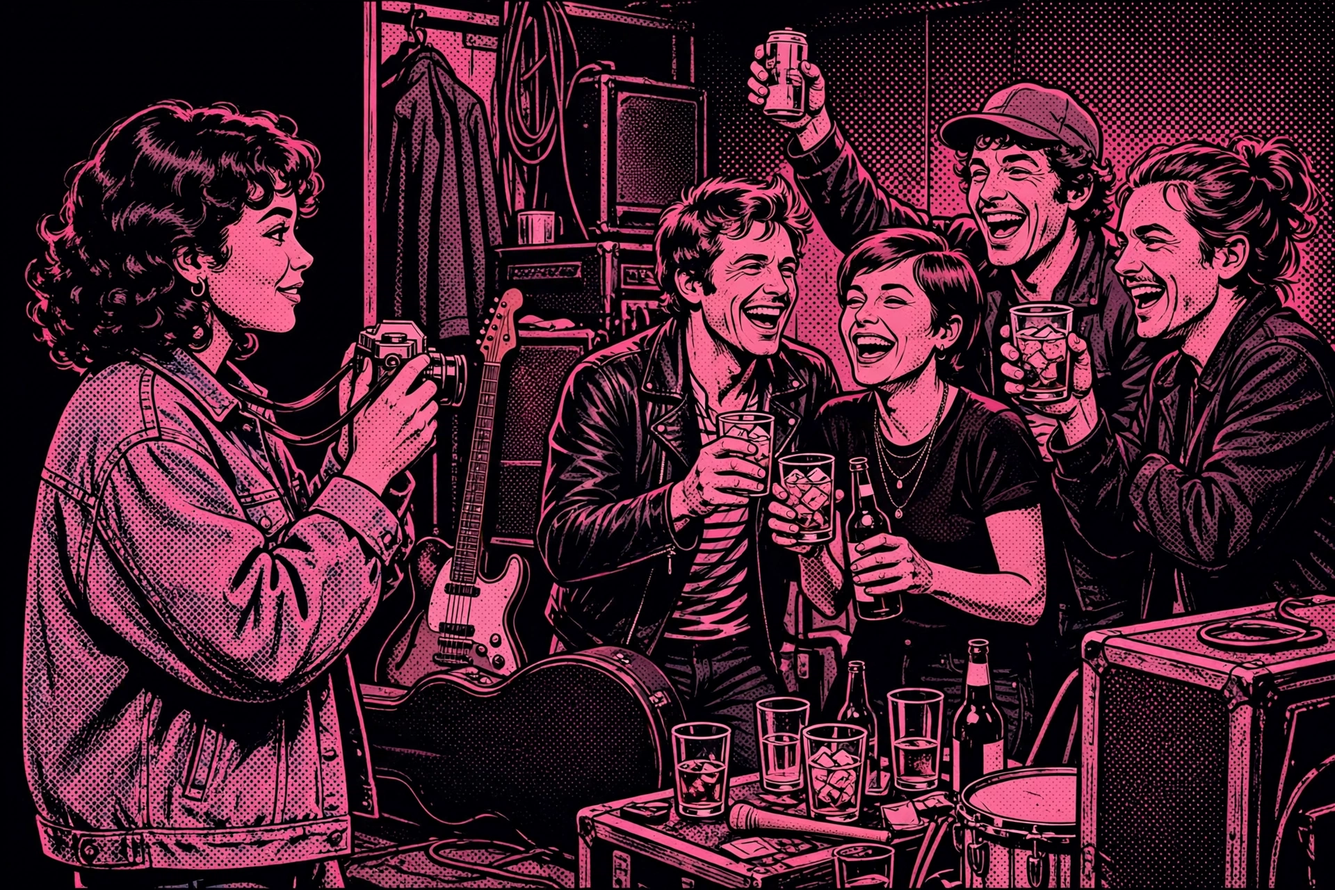
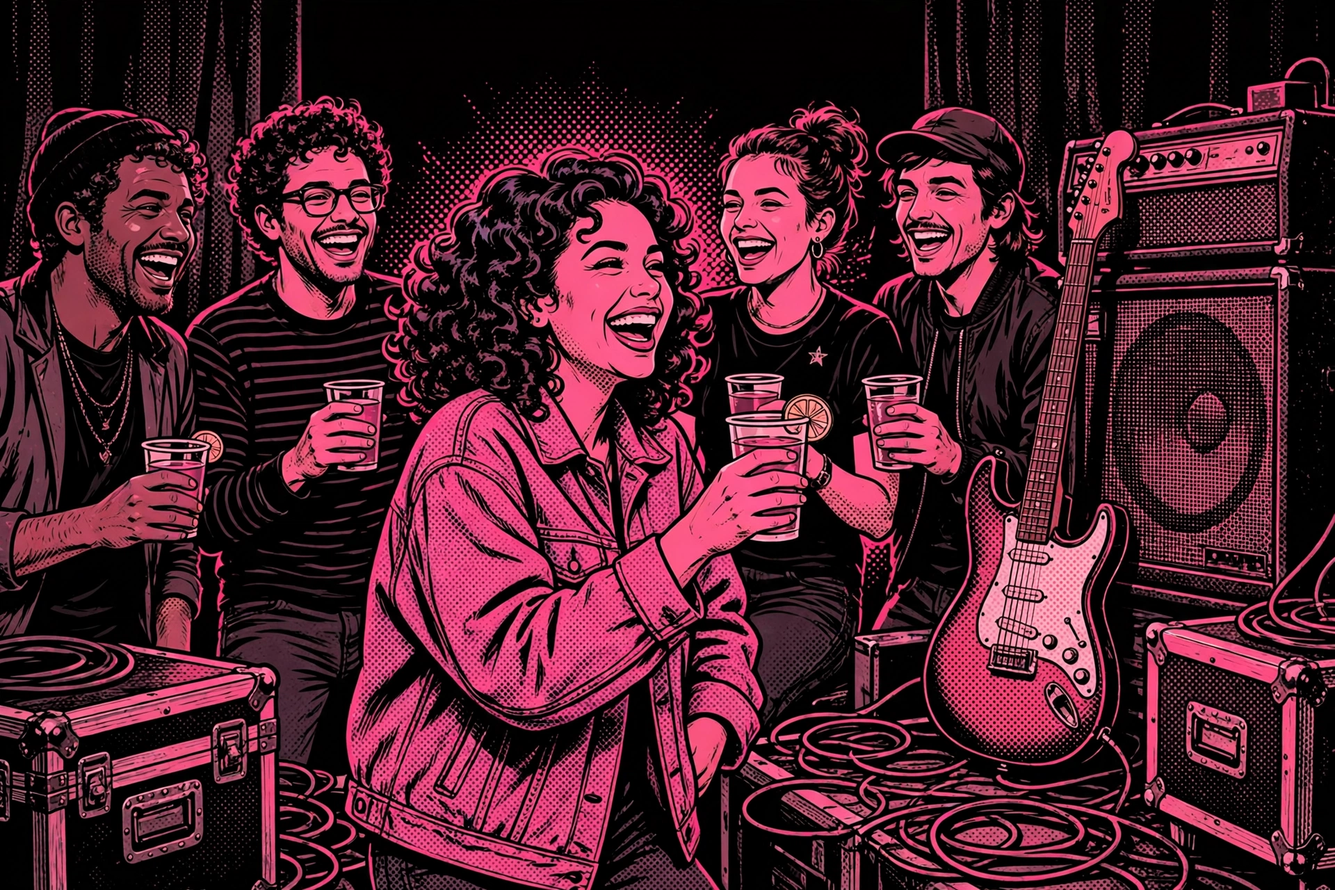
Revise 'Encore': remove photography — June is record-store clerk only, run merch on tour

diff --git a/romance/index.html b/romance/index.html
@@ -239,10 +239,10 @@ var PAGES = [
   {
     title: "1 · The last local show",
     blocks: [
-      { cap: "Theo\u2019s band plays their last local show tonight. After this, it\u2019s three weeks on the road \u2014 and I\u2019ve shot every single one of their gigs." },
+      { cap: "Theo\u2019s band plays their last local show tonight. After this, it\u2019s three weeks on the road \u2014 and I\u2019ve never missed one of their gigs." },
       { img: "panels/p01.webp", bubbles: [] },
       { img: "panels/p02.webp", bubbles: [
-        { who: "June \u00b7 thinking", text: "Same camera. Same pit. So why does tonight feel different?", pos: "bl", thought: true }
+        { who: "June \u00b7 thinking", text: "Same spot. Same denim jacket. So why does tonight feel different?", pos: "bl", thought: true }
       ]}
     ]
   },
@@ -252,7 +252,7 @@ var PAGES = [
       { img: "panels/p03.webp", bubbles: [] },
       { cap: "He plays like the room is on fire. He always has." },
       { img: "panels/p04.webp", bubbles: [
-        { who: "June \u00b7 thinking", text: "One more roll of film. That\u2019s all I need. That\u2019s what I keep telling myself.", pos: "bl", thought: true }
+        { who: "June \u00b7 thinking", text: "One more song. That\u2019s all I need. That\u2019s what I keep telling myself.", pos: "bl", thought: true }
       ]}
     ]
   },
@@ -260,7 +260,7 @@ var PAGES = [
     title: "3 · The look",
     blocks: [
       { img: "panels/p05.webp", bubbles: [
-        { who: "Theo", text: "This one\u2019s for the girl in the pit.", pos: "tl" }
+        { who: "Theo", text: "This one\u2019s for the girl in the front row.", pos: "tl" }
       ]},
       { img: "panels/p06.webp", bubbles: [
         { who: "June \u00b7 thinking", text: "He\u2019s looking at me. He\u2019s actually looking at me.", pos: "br", thought: true }
@@ -274,8 +274,8 @@ var PAGES = [
         { who: "Bandmate", text: "Tour starts Monday! Three weeks, five states!", pos: "tl" }
       ]},
       { img: "panels/p08.webp", bubbles: [
-        { who: "Theo", text: "Come here. Show me what you got tonight.", pos: "tl" },
-        { who: "June", text: "You already know. You\u2019re the only thing I ever aim at.", pos: "br" }
+        { who: "Theo", text: "Come here. What\u2019d you bring me tonight?", pos: "tl" },
+        { who: "June", text: "A first pressing. I pulled it from the shop for you.", pos: "br" }
       ]}
     ]
   },
@@ -283,7 +283,7 @@ var PAGES = [
     title: "5 · The ask",
     blocks: [
       { img: "panels/p09.webp", bubbles: [
-        { who: "Theo", text: "Come on tour with us. As our photographer. I\u2019m serious, June.", pos: "bl" }
+        { who: "Theo", text: "Come on tour with us. Run merch. I\u2019m serious, June.", pos: "bl" }
       ]},
       { img: "panels/p10.webp", bubbles: [
         { who: "June", text: "You want me \u2014 on the bus? For three weeks?", pos: "tl" },
@@ -305,7 +305,7 @@ var PAGES = [
     title: "7 · The truth",
     blocks: [
       { img: "panels/p13.webp", bubbles: [
-        { who: "June", text: "I started shooting your band because I liked the music. I kept coming back because of you.", pos: "bl" }
+        { who: "June", text: "I started coming to your shows because I liked the music. I kept coming back because of you.", pos: "bl" }
       ]},
       { img: "panels/p14.webp", bubbles: [
         { who: "Theo", text: "Say that again. Slowly. I want to remember exactly how you said it.", pos: "bl" }
@@ -334,7 +334,7 @@ var PAGES = [
   {
     title: "10 · Encore",
     blocks: [
-      { cap: "First night of the tour. Same camera. Same pit. Everything different." },
+      { cap: "First night of the tour. Same front row. Everything different." },
       { img: "panels/p19.webp", bubbles: [] },
       { img: "panels/p20.webp", bubbles: [
         { who: "Theo", text: "This one\u2019s called \u2018Encore.\u2019 It\u2019s for June.", pos: "tl" }
@@ -371,7 +371,7 @@ function render() {
     }
   });
   if (current === PAGES.length - 1) {
-    html += '<div class="endcard"><h2>The End</h2><p>June &amp; Theo will return in the next Fret and Ink romance.<br>Same camera. Same pit. New song.</p></div>';
+    html += '<div class="endcard"><h2>The End</h2><p>June &amp; Theo will return in the next Fret and Ink romance.<br>Same front row. New song.</p></div>';
   }
   pageEl.innerHTML = html;
   pagenoEl.textContent = 'Page ' + (current + 1) + ' of ' + PAGES.length;

diff --git a/romance/README.md b/romance/README.md
@@ -2,7 +2,7 @@
 
 An interactive music-themed romance comic that lives behind the **ROMANCE** book on the Fret and Ink Bonus Content bookshelf (member area). Tap or click to turn the pages.
 
-**The story:** June, 24, works at a record store and shoots shows on film. Theo, 26, is the drummer in a local indie band. She's photographed every one of their gigs for a year — and never told him why she keeps coming back. On the night of the band's last local show before their first real tour, he asks her to come on the road as their photographer, and the two of them finally say out loud what the songs have been saying all along. Friends to lovers, 10 pages, ends on a first kiss and a tour bus at dawn.
+**The story:** June, 24, works at a record store. Theo, 26, is the drummer in a local indie band. She's never missed one of their gigs in a year — and never told him why she keeps coming back. On the night of the band's last local show before their first real tour, he asks her to come on the road to run merch, and the two of them finally say out loud what the songs have been saying all along. Friends to lovers, 10 pages, ends on a first kiss and a tour bus at dawn.
 
 **The characters are fully original** — invented for this comic, not based on any real person or on Stefanie's novel.
 
